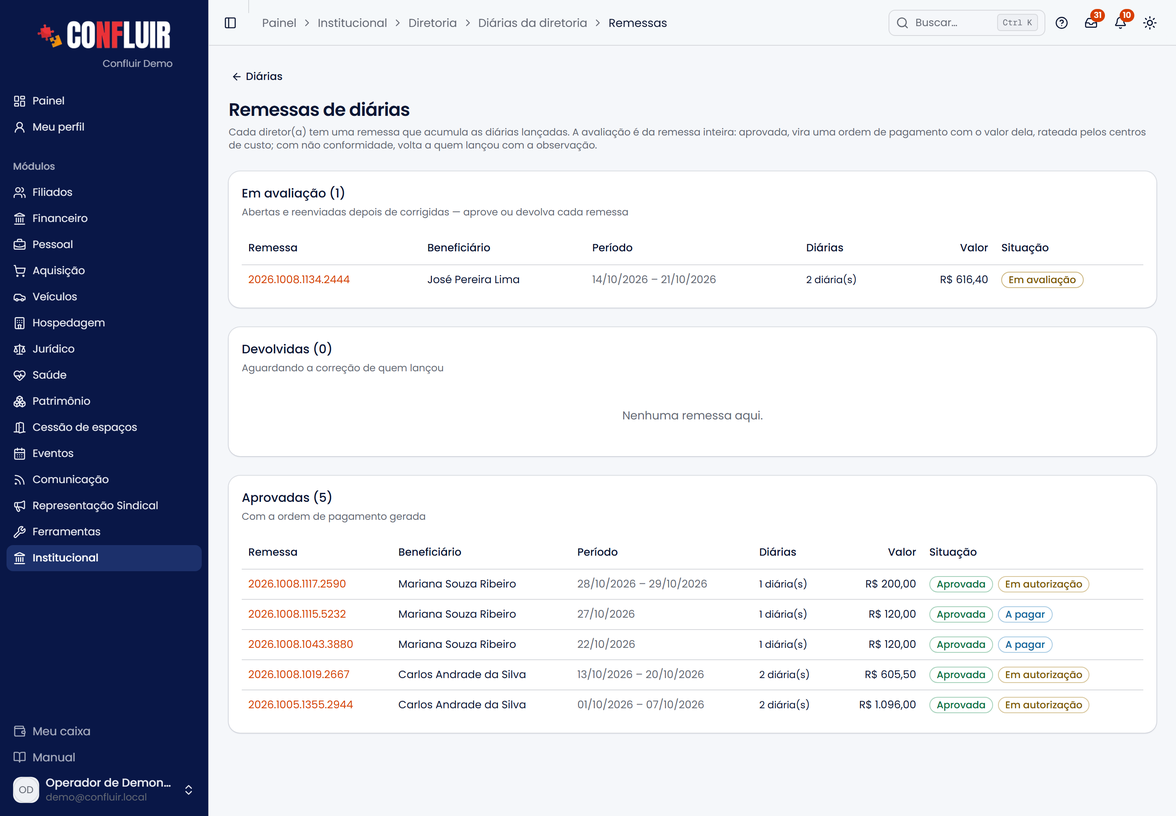
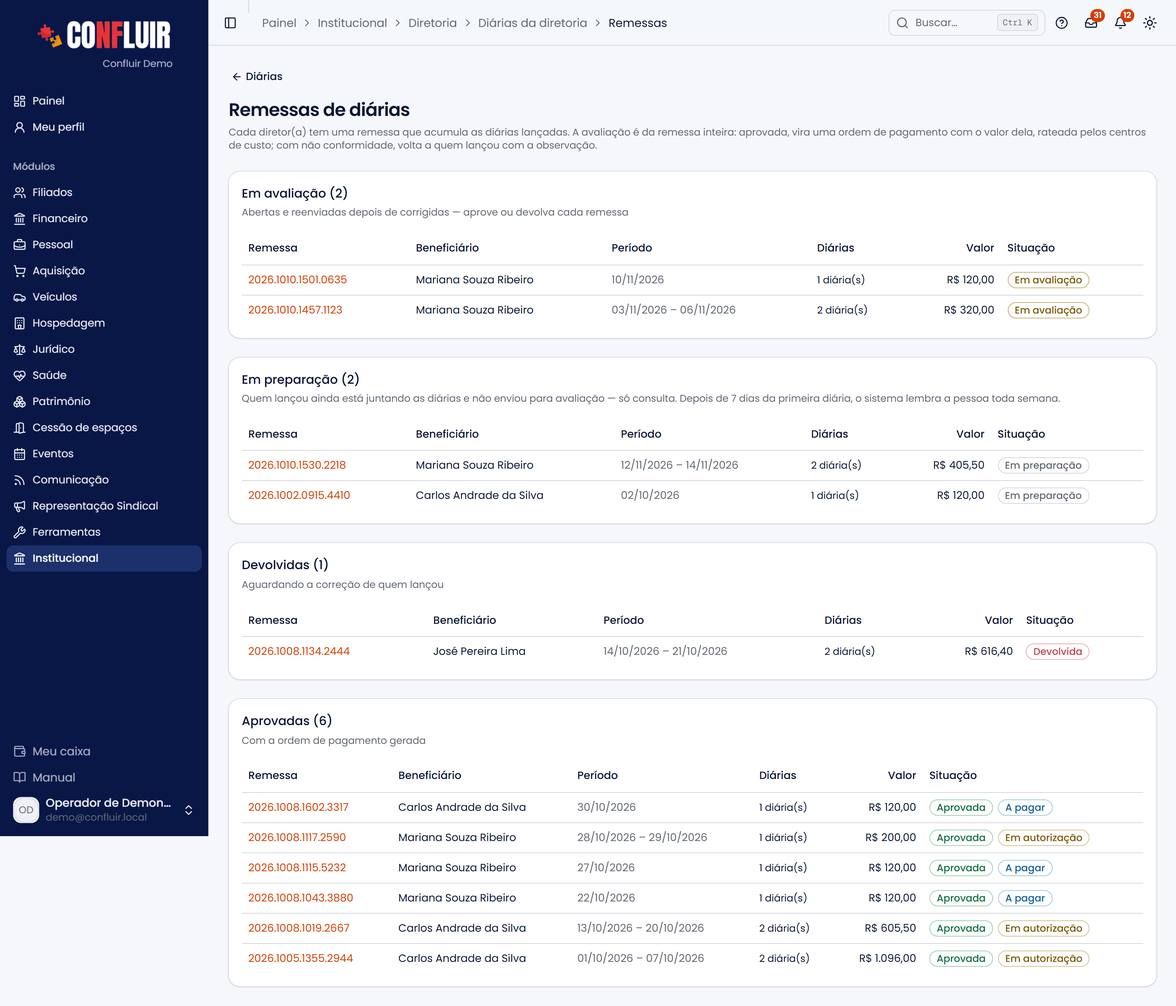
Manual: prints da remessa de diárias em preparação
Lista de remessas refeita com o bloco Em preparação; prints novos da remessa
em preparação (com Enviar para avaliação) e do lançamento com os botões
"Salvar e lançar outra" / "Salvar e enviar a remessa". Base regerada.

diff --git a/src/lib/ajuda/base-conhecimento.ts b/src/lib/ajuda/base-conhecimento.ts
@@ -302,7 +302,7 @@ export const BASE_AJUDA: ArtigoBase[] = [
   {
     "area": "institucional",
     "slug": "diretoria",
-    "texto": "A Diretoria organiza os mandatos e os integrantes da entidade — e é dela\nque saem os signatários dos ofícios. Ela tem duas abas: Mandatos e\nInstâncias.\n\n Mandatos e integrantes \n\n Mandatos e integrantes\n\n \n \nMandato: \n Um período de gestão, com início e fim. A página do mandato mostra os dados\n (lápis para editar), três cartões — Instâncias, Liberações sindicais e\n Atas de reunião, cada um com o total e a própria página — e os\n integrantes por grupo.\n \n \nA linha de cada integrante: \n Mostra o cargo, o departamento da pessoa em Organização (ou sem\n departamento), as instâncias em que representa a entidade, o selo\n Liberado quando há liberação vigente e a situação: licenciado ou\n excluído, com a data e o motivo.\n \n \nFicha do integrante: \n Cada integrante tem uma ficha: dados pessoais, endereço, vínculo, dados\n bancários, acessibilidade, contato de emergência e CNH — o que já está na\n filiação ou em Condutores aparece de lá.\n \n \n\n Licenciado ou excluído\n\nNo lápis do integrante, Situação no mandato: Em exercício (o padrão),\nLicenciado ou Excluído, com desde e motivo. A pessoa continua na\nlista do mandato, marcada — o excluído aparece riscado. Licenciado e excluído\nnão assinam ofícios: saem da lista de assinantes, mesmo com Assina ofícios\nmarcado.\n\n A ficha reflete os outros cadastros\n\nO que já existe em outro cadastro aparece na ficha — não se digita de novo.\nO que só o institucional tem continua nele.\n\n| Na ficha | De onde vem |\n|---|---|\n| Nascimento, e-mail, telefone, endereço, dados bancários, contato de emergência | Cadastro de filiação (selo Da filiação) |\n| Vínculos empregatícios (empresa, matrícula, lotação) | Cadastro de filiação, só para consulta |\n| CNH (número, categoria, validade, arquivo) | Veículos › Condutores, só para consulta |\n| Tamanho de camisa, tipo sanguíneo, acessibilidade | Só do institucional |\n\n \n\nAlterar na ficha altera a filiação: \n Para quem é filiado, mudar telefone, endereço, dados bancários ou o contato de\n emergência na ficha grava no cadastro de filiação — o mesmo dado passa a\n valer no perfil do filiado, nos reembolsos e no portal. A alteração fica\n registrada no prontuário da filiação. O contato de emergência editável é o\n primeiro da filiação; os demais continuam lá.\n \n\nA filiação é a vinculada ao integrante ou, sem vínculo, a do mesmo CPF. Um\nintegrante sem filiação (convidado, dirigente de outra base) tem a ficha\ncompleta guardada no institucional, como antes. A CNH aparece para quem está no\ncadastro de condutores — é lá que ela é cadastrada e atualizada.\n\n Instâncias\n\nInstâncias são as entidades em que o sindicato tem assento — conselhos,\ncomissões, fóruns. Elas são cadastradas fora do mandato, na aba\nInstâncias; os diretores são vinculados a elas dentro do mandato.\n\n \n \nCadastre a instância: \n Na aba Instâncias, em Nova instância: nome e descrição.\n \n \nVincule o diretor no mandato: \n Abra o mandato e, no cartão Instâncias, use Vincular diretor a uma\n instância: a instância, o diretor, o cargo nela, o período e o documento\n de posse.\n \n \nVeja a tag: \n Na lista de integrantes do mandato, quem tem vínculo em andamento ganha uma\n tag com o nome da instância. A página da instância lista todos os\n vínculos, de todos os mandatos, só para consulta.\n \n \n\n \n\n Liberações sindicais\n\nNo mandato, abra o cartão Liberações sindicais. Em Registrar liberação,\numa chave escolhe o jeito de lançar:\n\n- Individual — um diretor, o empregador, o tipo (permanente ou pontual), a\n vigência e o documento que oficializou.\n- Várias liberações — para quando um ofício libera várias pessoas, o\n caso mais comum.\n\n \n \nEscolha o ofício: \n O ofício é o da área de Ofícios — emita-o lá primeiro. O empregador vem\n preenchido com o destinatário do ofício, quando ele é uma fonte pagadora.\n \n \nAdicione as pessoas: \n Para cada pessoa, a data de saída e a data de retorno. A pessoa pode\n ser um diretor do mandato ou um trabalhador da base — escolha\n Trabalhador da base e busque o filiado; ele não precisa ser diretor. Sem\n data de retorno, a liberação fica permanente.\n \n \nRegistre: \n Uma liberação por pessoa é criada de uma vez, todas ligadas ao mesmo\n ofício. Na tabela, o trabalhador da base aparece com a marca base, e a\n coluna Documento leva ao ofício — que, por sua vez, lista as liberações\n registradas com ele.\n \n \n\n \n\nNo Meu perfil do diretor, a liberação aparece como em vigor, prevista\n(ainda não começou) ou encerrada.\n\n Signatários dos ofícios\n\nOs integrantes vigentes de um mandato são as pessoas oferecidas como\nassinantes ao emitir um ofício — por isso manter a diretoria em dia reflete\ndireto nos documentos.\n\n Atas de reunião\n\nAs atas ficam ancoradas no mandato — no cartão Atas de reunião — com tipo,\npauta, deliberações, presentes e o PDF da ata. Há também uma visão geral das\natas na área própria.\n\nSuba o PDF e a IA preenche a ata: \n Em Nova ata, o campo Ata em PDF fica no alto. Ao escolher o arquivo, a\n IA lê a ata — digitada ou escaneada — e preenche tipo, data, título, hora,\n local, pauta, deliberações, presentes e observações. Confira antes de\n salvar. Numa ata já registrada, só os campos vazios são preenchidos.\n \n\n \n\n \n\n Diárias da diretoria\n\nDiretor também recebe diária, e ela mora aqui — na aba Diárias, não em\nPessoal. O motor é o mesmo das diárias de funcionário, mas a porta é outra: só\nentra quem tem a permissão Diárias da diretoria, então quem cuida de folha e\nponto não vê nem avalia a diretoria (e vice-versa).\n\nAs diárias de cada diretor entram na remessa dele, e a avaliação é da\nremessa inteira — o mesmo fluxo de Pessoal, com aprovar, devolver com\nobservação e reenviar (veja Diárias). As\nremessas da diretoria ficam no botão Remessas desta aba.\n\nNo alto ficam os números do ano: quantas aguardam avaliação, quantas foram\naprovadas, o valor das diárias e o das despesas extras — e, logo abaixo, o\naprovado por departamento, que é como a contabilidade enxerga.\n\n \n \nLançar: \n Lançar diária abre o formulário (com Salvar e lançar outra ou\n Salvar e enviar a remessa): o diretor, o departamento que banca a\n atividade, o tipo, a quantidade, o período e a atividade. Quase nenhum\n diretor tem conta no sistema, então quem costuma lançar é a secretaria — o\n sistema guarda quem digitou. Quem tem conta pede a própria em\n Meu perfil → Minhas diárias.\n \n \nAcrescentar as despesas: \n Na tela da diária, enquanto ela aguarda avaliação, entram as despesas\n extras — hospedagem, alimentação, passagem — com valor e comprovante.\n \n \nAvaliar a remessa: \n Em Remessas, abra a remessa do diretor e aprove — nasce uma ordem\n de pagamento com o valor da remessa, rateada pelas contas dos\n departamentos — ou devolva com observação. Como quase nenhum diretor\n tem conta, quem corrige e reenvia é a própria secretaria, na tela da\n remessa (o botão Retirar tira uma diária com problema).\n \n \n\nO departamento decide a conta contábil: \n O departamento do diretor vem do cadastro dele (Organização → Departamentos)\n ou do próprio cargo, e pode ser trocado no lançamento quando a atividade é de\n outra área. É ele que escolhe a conta — no plano de contas, \"Deslocamento\n Diretores\" existe repetido em cada departamento.\n \n\n \n\n \n\nAs diárias de cada diretor também aparecem na ficha dele, com o total\naprovado no ano.\n\n Erros comuns\n\n- \"O signatário não aparece ao emitir um ofício.\" Só os integrantes\n vigentes do mandato são oferecidos como assinantes — confira o período do\n mandato e o cargo do integrante.\n- \"A ata não aparece.\" As atas ficam ancoradas no mandato; abra o\n cartão Atas de reunião do mandato (há também a visão geral na área própria).\n- \"O integrante aparece sem departamento.\" Vincule a pessoa em\n Institucional → Organização → Departamentos (ela precisa ter conta de usuário).\n- \"Uma diretora licenciada ainda aparece como assinante.\" Confira a\n Situação no mandato no lápis dela — licenciado e excluído saem dos assinantes.\n- \"Mudei o telefone na ficha e mudou no filiado.\" É o esperado: para quem\n é filiado, a ficha e a filiação são o mesmo cadastro.\n- \"A CNH não aparece na ficha.\" A pessoa não está em Veículos › Condutores\n (ou não tem conta de usuário com o mesmo CPF). Cadastre lá.\n- \"Não acho o ofício para vincular as liberações.\" Só aparecem ofícios\n emitidos na área de Ofícios. Emita-o lá e volte.\n- \"Não consigo vincular o diretor à instância na página dela.\" O vínculo\n é lançado dentro do mandato, no cartão Instâncias; a página da instância é\n só consulta.\n- \"O integrante saiu da diretoria mas continua aparecendo.\" Encerre o\n mandato ou o vínculo do integrante para tirá-lo dos vigentes.\n- \"A aba Diárias não aparece.\" Ela só aparece para quem tem a permissão\n Diárias da diretoria — peça a quem administra os acessos.\n- \"O diretor não aparece no formulário de diária.\" Só entram integrantes\n em exercício do mandato vigente que tenham cadastro de usuário. Ligue a\n pessoa a um usuário no lápis dela, no mandato.\n- \"Não há tipo de diária para escolher.\" Os tipos ficam em Pessoal →\n Diárias → Tipos de diária, e cada um diz se vale para funcionários, para a\n diretoria ou para os dois.\n- \"A diária do diretor apareceu na conta errada.\" Confira o departamento da\n solicitação e o de-para em Diárias → Centros de custo.\n- \"Não acho onde aprovar a diária do diretor.\" A avaliação é da remessa:\n botão Remessas, nesta aba, ou Abrir a remessa para avaliar na tela da\n diária. Na lista, as diárias têm só Ver."
+    "texto": "A Diretoria organiza os mandatos e os integrantes da entidade — e é dela\nque saem os signatários dos ofícios. Ela tem duas abas: Mandatos e\nInstâncias.\n\n Mandatos e integrantes \n\n Mandatos e integrantes\n\n \n \nMandato: \n Um período de gestão, com início e fim. A página do mandato mostra os dados\n (lápis para editar), três cartões — Instâncias, Liberações sindicais e\n Atas de reunião, cada um com o total e a própria página — e os\n integrantes por grupo.\n \n \nA linha de cada integrante: \n Mostra o cargo, o departamento da pessoa em Organização (ou sem\n departamento), as instâncias em que representa a entidade, o selo\n Liberado quando há liberação vigente e a situação: licenciado ou\n excluído, com a data e o motivo.\n \n \nFicha do integrante: \n Cada integrante tem uma ficha: dados pessoais, endereço, vínculo, dados\n bancários, acessibilidade, contato de emergência e CNH — o que já está na\n filiação ou em Condutores aparece de lá.\n \n \n\n Licenciado ou excluído\n\nNo lápis do integrante, Situação no mandato: Em exercício (o padrão),\nLicenciado ou Excluído, com desde e motivo. A pessoa continua na\nlista do mandato, marcada — o excluído aparece riscado. Licenciado e excluído\nnão assinam ofícios: saem da lista de assinantes, mesmo com Assina ofícios\nmarcado.\n\n A ficha reflete os outros cadastros\n\nO que já existe em outro cadastro aparece na ficha — não se digita de novo.\nO que só o institucional tem continua nele.\n\n| Na ficha | De onde vem |\n|---|---|\n| Nascimento, e-mail, telefone, endereço, dados bancários, contato de emergência | Cadastro de filiação (selo Da filiação) |\n| Vínculos empregatícios (empresa, matrícula, lotação) | Cadastro de filiação, só para consulta |\n| CNH (número, categoria, validade, arquivo) | Veículos › Condutores, só para consulta |\n| Tamanho de camisa, tipo sanguíneo, acessibilidade | Só do institucional |\n\n \n\nAlterar na ficha altera a filiação: \n Para quem é filiado, mudar telefone, endereço, dados bancários ou o contato de\n emergência na ficha grava no cadastro de filiação — o mesmo dado passa a\n valer no perfil do filiado, nos reembolsos e no portal. A alteração fica\n registrada no prontuário da filiação. O contato de emergência editável é o\n primeiro da filiação; os demais continuam lá.\n \n\nA filiação é a vinculada ao integrante ou, sem vínculo, a do mesmo CPF. Um\nintegrante sem filiação (convidado, dirigente de outra base) tem a ficha\ncompleta guardada no institucional, como antes. A CNH aparece para quem está no\ncadastro de condutores — é lá que ela é cadastrada e atualizada.\n\n Instâncias\n\nInstâncias são as entidades em que o sindicato tem assento — conselhos,\ncomissões, fóruns. Elas são cadastradas fora do mandato, na aba\nInstâncias; os diretores são vinculados a elas dentro do mandato.\n\n \n \nCadastre a instância: \n Na aba Instâncias, em Nova instância: nome e descrição.\n \n \nVincule o diretor no mandato: \n Abra o mandato e, no cartão Instâncias, use Vincular diretor a uma\n instância: a instância, o diretor, o cargo nela, o período e o documento\n de posse.\n \n \nVeja a tag: \n Na lista de integrantes do mandato, quem tem vínculo em andamento ganha uma\n tag com o nome da instância. A página da instância lista todos os\n vínculos, de todos os mandatos, só para consulta.\n \n \n\n \n\n Liberações sindicais\n\nNo mandato, abra o cartão Liberações sindicais. Em Registrar liberação,\numa chave escolhe o jeito de lançar:\n\n- Individual — um diretor, o empregador, o tipo (permanente ou pontual), a\n vigência e o documento que oficializou.\n- Várias liberações — para quando um ofício libera várias pessoas, o\n caso mais comum.\n\n \n \nEscolha o ofício: \n O ofício é o da área de Ofícios — emita-o lá primeiro. O empregador vem\n preenchido com o destinatário do ofício, quando ele é uma fonte pagadora.\n \n \nAdicione as pessoas: \n Para cada pessoa, a data de saída e a data de retorno. A pessoa pode\n ser um diretor do mandato ou um trabalhador da base — escolha\n Trabalhador da base e busque o filiado; ele não precisa ser diretor. Sem\n data de retorno, a liberação fica permanente.\n \n \nRegistre: \n Uma liberação por pessoa é criada de uma vez, todas ligadas ao mesmo\n ofício. Na tabela, o trabalhador da base aparece com a marca base, e a\n coluna Documento leva ao ofício — que, por sua vez, lista as liberações\n registradas com ele.\n \n \n\n \n\nNo Meu perfil do diretor, a liberação aparece como em vigor, prevista\n(ainda não começou) ou encerrada.\n\n Signatários dos ofícios\n\nOs integrantes vigentes de um mandato são as pessoas oferecidas como\nassinantes ao emitir um ofício — por isso manter a diretoria em dia reflete\ndireto nos documentos.\n\n Atas de reunião\n\nAs atas ficam ancoradas no mandato — no cartão Atas de reunião — com tipo,\npauta, deliberações, presentes e o PDF da ata. Há também uma visão geral das\natas na área própria.\n\nSuba o PDF e a IA preenche a ata: \n Em Nova ata, o campo Ata em PDF fica no alto. Ao escolher o arquivo, a\n IA lê a ata — digitada ou escaneada — e preenche tipo, data, título, hora,\n local, pauta, deliberações, presentes e observações. Confira antes de\n salvar. Numa ata já registrada, só os campos vazios são preenchidos.\n \n\n \n\n \n\n Diárias da diretoria\n\nDiretor também recebe diária, e ela mora aqui — na aba Diárias, não em\nPessoal. O motor é o mesmo das diárias de funcionário, mas a porta é outra: só\nentra quem tem a permissão Diárias da diretoria, então quem cuida de folha e\nponto não vê nem avalia a diretoria (e vice-versa).\n\nAs diárias de cada diretor entram na remessa dele, e a avaliação é da\nremessa inteira — o mesmo fluxo de Pessoal, com aprovar, devolver com\nobservação e reenviar (veja Diárias). As\nremessas da diretoria ficam no botão Remessas desta aba.\n\nNo alto ficam os números do ano: quantas aguardam avaliação, quantas foram\naprovadas, o valor das diárias e o das despesas extras — e, logo abaixo, o\naprovado por departamento, que é como a contabilidade enxerga.\n\n \n \nLançar: \n Lançar diária abre o formulário (com Salvar e lançar outra ou\n Salvar e enviar a remessa): o diretor, o departamento que banca a\n atividade, o tipo, a quantidade, o período e a atividade. Quase nenhum\n diretor tem conta no sistema, então quem costuma lançar é a secretaria — o\n sistema guarda quem digitou. Quem tem conta pede a própria em\n Meu perfil → Minhas diárias.\n \n \nAcrescentar as despesas: \n Na tela da diária, enquanto ela aguarda avaliação, entram as despesas\n extras — hospedagem, alimentação, passagem — com valor e comprovante.\n \n \nAvaliar a remessa: \n Em Remessas, abra a remessa do diretor e aprove — nasce uma ordem\n de pagamento com o valor da remessa, rateada pelas contas dos\n departamentos — ou devolva com observação. Como quase nenhum diretor\n tem conta, quem corrige e reenvia é a própria secretaria, na tela da\n remessa (o botão Retirar tira uma diária com problema).\n \n \n\n \n\nO departamento decide a conta contábil: \n O departamento do diretor vem do cadastro dele (Organização → Departamentos)\n ou do próprio cargo, e pode ser trocado no lançamento quando a atividade é de\n outra área. É ele que escolhe a conta — no plano de contas, \"Deslocamento\n Diretores\" existe repetido em cada departamento.\n \n\n \n\n \n\nAs diárias de cada diretor também aparecem na ficha dele, com o total\naprovado no ano.\n\n Erros comuns\n\n- \"O signatário não aparece ao emitir um ofício.\" Só os integrantes\n vigentes do mandato são oferecidos como assinantes — confira o período do\n mandato e o cargo do integrante.\n- \"A ata não aparece.\" As atas ficam ancoradas no mandato; abra o\n cartão Atas de reunião do mandato (há também a visão geral na área própria).\n- \"O integrante aparece sem departamento.\" Vincule a pessoa em\n Institucional → Organização → Departamentos (ela precisa ter conta de usuário).\n- \"Uma diretora licenciada ainda aparece como assinante.\" Confira a\n Situação no mandato no lápis dela — licenciado e excluído saem dos assinantes.\n- \"Mudei o telefone na ficha e mudou no filiado.\" É o esperado: para quem\n é filiado, a ficha e a filiação são o mesmo cadastro.\n- \"A CNH não aparece na ficha.\" A pessoa não está em Veículos › Condutores\n (ou não tem conta de usuário com o mesmo CPF). Cadastre lá.\n- \"Não acho o ofício para vincular as liberações.\" Só aparecem ofícios\n emitidos na área de Ofícios. Emita-o lá e volte.\n- \"Não consigo vincular o diretor à instância na página dela.\" O vínculo\n é lançado dentro do mandato, no cartão Instâncias; a página da instância é\n só consulta.\n- \"O integrante saiu da diretoria mas continua aparecendo.\" Encerre o\n mandato ou o vínculo do integrante para tirá-lo dos vigentes.\n- \"A aba Diárias não aparece.\" Ela só aparece para quem tem a permissão\n Diárias da diretoria — peça a quem administra os acessos.\n- \"O diretor não aparece no formulário de diária.\" Só entram integrantes\n em exercício do mandato vigente que tenham cadastro de usuário. Ligue a\n pessoa a um usuário no lápis dela, no mandato.\n- \"Não há tipo de diária para escolher.\" Os tipos ficam em Pessoal →\n Diárias → Tipos de diária, e cada um diz se vale para funcionários, para a\n diretoria ou para os dois.\n- \"A diária do diretor apareceu na conta errada.\" Confira o departamento da\n solicitação e o de-para em Diárias → Centros de custo.\n- \"Não acho onde aprovar a diária do diretor.\" A avaliação é da remessa:\n botão Remessas, nesta aba, ou Abrir a remessa para avaliar na tela da\n diária. Na lista, as diárias têm só Ver."
   },
   {
     "area": "institucional",
@@ -462,7 +462,7 @@ export const BASE_AJUDA: ArtigoBase[] = [
   {
     "area": "pessoal",
     "slug": "diarias",
-    "texto": "As diárias cobrem despesas de viagens e deslocamentos. A equipe cadastra os\ntipos, o funcionário solicita, e as diárias de cada pessoa se juntam numa\nremessa, que é avaliada inteira — aprovada, vira uma ordem de pagamento só,\nrateada pelos centros de custo.\n\nDiretor tem a área dele: \n Esta tela é a das diárias de funcionário. As da diretoria ficam em\n Institucional → Diretoria → Diárias, com permissão própria: quem cuida de\n folha e ponto não avalia a diretoria. O motor é o mesmo — tipos, despesas\n extras e contas são compartilhados.\n \n\n Tipos de diária\n\nEm Tipos de diária, cadastre cada tipo com o nome, a descrição e o valor de\nreferência, e mantenha ativos apenas os que estão em uso. Cada tipo diz também\nem Vale para se serve a funcionários, à diretoria ou aos dois — é o que\ndecide em qual das duas telas ele aparece. Tipos trazidos do sistema anterior\npodem aparecer como Permanente ou Restrito a N pessoas: o restrito só\naparece no formulário de quem está na lista.\n\n \n\n O ciclo: a diária entra na remessa, e a remessa é avaliada\n\nCada pessoa tem uma remessa de diárias: toda diária que ela pede (ou que\nlançam por ela) entra nessa remessa, com as despesas extras. A remessa começa\nem preparação — a pessoa vai juntando as diárias e, quando terminar, envia\npara avaliação. Só então ela aparece para quem avalia. A avaliação\nnão é diária por diária — é da remessa inteira: quem avalia confere tudo de\numa vez e aprova (nasce uma ordem de pagamento só, com o valor da remessa)\nou devolve com a observação do que não está de acordo.\n\n \n \nSolicitar: \n Em Meu perfil → Minhas diárias, o botão Solicitar diária abre o\n formulário: o tipo, a quantidade, o período e o motivo. O valor é\n quantidade × valor do tipo. A diária entra na remessa em preparação da\n pessoa. Dois botões: Salvar e lançar outra (continua juntando) e\n Salvar e enviar a remessa (salva e já manda a remessa inteira para\n avaliação).\n \n \nEnviar para avaliação: \n Juntou tudo? No cartão da remessa, em Meu perfil → Minhas diárias, o\n botão Enviar para avaliação mostra o resumo (diárias e total) e envia.\n Quem avalia é avisado. Enviada, a remessa não recebe mais diárias — a\n próxima abre outra remessa.\n \n \nAcrescentar as despesas: \n Antes de enviar, quem pediu lança as despesas\n extras — hospedagem, alimentação, passagem, táxi, pedágio — com valor e\n comprovante. A equipe também lança pela tela da diária.\n \n \nAvaliar a remessa: \n Em Diárias → Remessas, abra a remessa: as diárias, as despesas e os\n comprovantes estão todos na mesma tela. Aprovar a remessa aprova todas\n as diárias de uma vez; Devolver com observação manda de volta a quem\n lançou (veja abaixo).\n \n \nPagamento: \n Aprovada, nasce uma ordem de pagamento com o valor da remessa — diárias\n (líquidas das infrações de trânsito descontadas) mais despesas —, rateada\n pelos centros de custo configurados. Se ela já sai autorizada ou vai para\n a fila de autorização depende da regra das diárias (veja Autorização da\n ordem, mais abaixo).\n \n \n\n \n\nQuem envia e o lembrete: \n Envia a remessa quem recebe ou quem lançou as diárias dela — na\n diretoria, a secretaria. Quem gere as diárias vê as remessas em preparação\n (bloco Em preparação de Diárias → Remessas), mas só consulta e cobra. Se a\n primeira diária da remessa tem 7 dias e ela ainda não foi enviada, o\n sistema lembra quem recebe e quem lançou — e repete uma vez por semana.\n \n\nA diária sozinha não é avaliada: na lista de Diárias toda linha tem só Ver,\ne a tela da diária mostra a remessa em que ela entrou, com o botão Abrir a\nremessa para avaliar — é lá que se aprova ou devolve. Quem avalia diárias de funcionário também pode decidir\npelo celular, em Aprovar, e o coordenador do departamento decide a\nremessa dos funcionários dele na aba Coordenação do painel — ninguém avalia\na própria remessa.\n\n Devolver com observação\n\nSe algo não está de acordo — falta o relatório da atividade, um comprovante,\na quantidade de diárias não confere —, use Devolver com observação:\n\n1. Escreva o que não está de acordo (obrigatório).\n2. Em Diárias com não conformidade, marque cada diária com problema e diga\n o que corrigir nela.\n3. Confirme em Devolver a remessa.\n\n \n\nQuem recebe e quem lançou são avisados (sino, Telegram e e-mail, conforme as\npreferências). A remessa fica Devolvida, as diárias apontadas aparecem em\nvermelho com a não conformidade, e ela sai da fila de quem avalia até ser\nreenviada.\n\n \n\n Corrigir e reenviar\n\n- Quem pediu vê a devolução em Meu perfil → Minhas diárias: a\n observação, as diárias apontadas e o botão Reenviar para avaliação.\n Para corrigir, ajuste as despesas, cancele a diária com problema e, se\n for o caso, peça de novo com os dados certos — a nova entra na mesma\n remessa.\n- Quem gere as diárias também corrige pela tela da remessa: o botão\n Retirar tira (cancela) uma diária da remessa, e o Reenviar fica\n disponível — é o caminho para a diretoria, que quase nunca tem conta no\n sistema.\n- Reenviada, a remessa volta à fila (Reenviada) e quem avalia é avisado.\n Quem avalia também pode avaliar de novo sem esperar o reenvio, quando a\n correção já foi feita por ele mesmo.\n\nTodo o caminho fica no Histórico da avaliação da remessa: quem devolveu e\npor quê, quem reenviou e o que corrigiu, quem aprovou e a ordem gerada.\n\n \n\n A lista de remessas\n\nDiárias → Remessas separa as remessas em Em avaliação (enviadas e\nreenviadas — as que esperam decisão), Em preparação (a pessoa ainda está\njuntando as diárias; só consulta), Devolvidas (esperando a correção de quem\nlançou) e Aprovadas (com a situação da ordem de pagamento ao lado). O\nbotão Remessas, no alto da tela de Diárias, mostra quantas há a avaliar.\n\n \n\nNo alto da lista de Diárias ficam os números do ano: quantas diárias aguardam\navaliação (e quanto somam), quantas foram aprovadas, o valor das diárias e o das\ndespesas extras.\n\n \n\n Autorização da ordem\n\nQuando a remessa é aprovada, a ordem de pagamento pode já nascer A pagar\n(autorizada por quem aprovou a remessa) ou ir para a fila de autorização do\nFinanceiro. A regra é uma só para a entidade e fica no topo de\nDiárias → Centros de custo, no cartão Autorização das ordens das remessas:\n\n| Regra | O que acontece ao aprovar a remessa |\n|---|---|\n| Quem aprova a remessa autoriza a ordem (padrão) | A ordem nasce A pagar, autorizada por quem aprovou, qualquer que seja o valor. |\n| A autorização da ordem depende da alçada financeira | Se o valor couber na alçada de quem aprovou, a ordem nasce A pagar, autorizada por ele. Se não couber (ou a pessoa não tiver alçada), a ordem vai para a fila Em autorização e segue como qualquer outra ordem. |\n\nAntes de aprovar, a tela da remessa já diz o que vai acontecer com a ordem para\nquem está avaliando — \"já autorizada por você\" ou \"enviada à fila de\nautorização\". A autorização automática fica registrada na ordem (quem, quando e\no motivo) e na trilha dela.\n\n \n\nQuem muda a regra: \n É uma decisão financeira: só quem tem Configurações ou a avaliação das\n ordens de pagamento muda a regra. Quem gere as diárias vê a regra em vigor,\n mas não altera.\n \n\n Despesas extras e centros de custo\n\nA despesa extra está submetida à diária — mesma remessa, mesma avaliação,\nmesmo pagamento —, mas pode ir para outra conta contábil. Por isso a ordem\nda remessa sai com rateio: um pagamento só, uma linha por conta (e por\ndepartamento) — o que cai na mesma conta soma numa linha. O rateio aparece no\nbloco Centro de custo da ordem, no Financeiro.\n\nEm Diárias → Centros de custo se diz qual conta cada gasto usa. A conta sai\nde três coisas: o quadro de quem recebe (funcionário ou diretoria), o\ndepartamento que banca e o tipo de gasto (a diária ou cada despesa).\nFuncionários usam uma conta só; na diretoria, cada departamento pode ter a sua,\ne o padrão vale para quem não tiver conta própria.\n\nNada disso é obrigatório: sem conta definida, a ordem vai para o Financeiro\nclassificar na autorização, como sempre foi.\n\nA mesma tela serve às Viagens: as contas de Passagem e Hospedagem de\ndiretores e funcionários são as que as faturas das agências usam, e a aba\nConvidados guarda as dos convidados de eventos. Ver\nFaturas de viagens.\n\n \n\nPrecisa da configuração: \n As diárias dependem de uma configuração inicial (os arquivos diarias.sql e\n diarias-diretoria.sql). Sem ela, a área mostra um aviso para configurar —\n fale com quem administra o sistema.\n \n\n Histórico do sistema anterior\n\nNo sistema anterior a diária era lançada dia a dia (tipo, atividade, local e\nvalor, com as despesas e comprovantes de cada dia) e os lançamentos formavam uma\nremessa do beneficiário, que era enviada, avaliada e paga por ordem de\npagamento. Essas remessas estão em Diárias → Histórico, só para consulta —\no botão mostra quantas são. Filtre por ano ou busque por beneficiário,\ndepartamento ou código, e abra a remessa para ver a avaliação, a ordem de\npagamento e os lançamentos.\n\nCada pessoa vê as próprias remessas em Meu perfil → Diárias anteriores — o\natalho aparece para quem tem alguma, diretor ou funcionário.\n\n Erros comuns\n\n- \"A área pede para configurar.\" Falta rodar a configuração inicial\n (diarias.sql) — fale com quem administra o sistema.\n- \"A lista está vazia, mas havia diárias no sistema antigo.\" Elas estão em\n Histórico — a lista principal mostra só as solicitações novas.\n- \"Não acho o botão de aprovar na diária.\" A avaliação é da remessa:\n abra Diárias → Remessas (o botão mostra quantas há a avaliar) ou, na\n tela da diária, Abrir a remessa para avaliar.\n- \"A remessa não mostra Aprovar.\" Se todas as diárias dela foram\n canceladas, não há o que avaliar — ela sai da fila Em avaliação. Diária\n aprovada pelo jeito antigo (por diária, antes da mudança) e ainda sem ordem\n aparece com Aprovar a remessa, que só gera a ordem.\n- \"Aprovei a remessa, mas a ordem ficou Em autorização.\" A regra das\n diárias está em depende da alçada e o valor passou da sua alçada — a ordem\n segue na fila de quem tem alçada para ela. Veja Autorização da ordem.\n- \"Aprovei a remessa, mas o pagamento não saiu.\" A ordem nasce A pagar\n no Financeiro; o pagamento em si é registrado lá, como em qualquer ordem.\n- \"A remessa sumiu da fila.\" Ela foi devolvida e espera a correção —\n está no bloco Devolvidas da lista de remessas.\n- \"Lancei a diária, mas ninguém avaliou.\" A remessa está em preparação:\n falta Enviar para avaliação (Meu perfil → Minhas diárias, ou a tela da\n remessa para quem lançou pela pessoa).\n- \"Quero enviar a remessa de um funcionário.\" Só envia quem recebe ou quem\n lançou as diárias; quem gere as diárias cobra a pessoa — o sistema também\n lembra depois de 7 dias.\n- \"Não consigo reenviar a remessa.\" Ela precisa ter ao menos uma diária\n aguardando. Se você cancelou a única diária, peça a diária corrigida antes de\n reenviar.\n- \"Não consigo avaliar a remessa.\" Ninguém avalia a própria remessa — e a\n diária de diretor é avaliada pela Diretoria, não pelo Pessoal.\n- \"O valor total veio errado.\" O total é quantidade × valor do tipo;\n confira o valor de referência cadastrado no tipo de diária. As despesas extras\n aparecem somadas à parte.\n- \"O tipo de diária não aparece na solicitação.\" Ele pode estar inativo —\n reative-o em Tipos de diária —, restrito a outras pessoas ou marcado em\n Vale para como sendo do outro quadro.\n- \"Não consigo lançar a despesa.\" Depois de aprovada, a diária não aceita\n mudança nas despesas — o rateio da ordem já foi fechado.\n- \"A despesa caiu na conta da diária.\" Defina a conta daquele tipo de\n despesa em Diárias → Centros de custo.\n- \"Não consigo excluir um tipo antigo.\" Tipos usados em solicitações ou em\n lançamentos do histórico não podem ser excluídos — desative-os."
+    "texto": "As diárias cobrem despesas de viagens e deslocamentos. A equipe cadastra os\ntipos, o funcionário solicita, e as diárias de cada pessoa se juntam numa\nremessa, que é avaliada inteira — aprovada, vira uma ordem de pagamento só,\nrateada pelos centros de custo.\n\nDiretor tem a área dele: \n Esta tela é a das diárias de funcionário. As da diretoria ficam em\n Institucional → Diretoria → Diárias, com permissão própria: quem cuida de\n folha e ponto não avalia a diretoria. O motor é o mesmo — tipos, despesas\n extras e contas são compartilhados.\n \n\n Tipos de diária\n\nEm Tipos de diária, cadastre cada tipo com o nome, a descrição e o valor de\nreferência, e mantenha ativos apenas os que estão em uso. Cada tipo diz também\nem Vale para se serve a funcionários, à diretoria ou aos dois — é o que\ndecide em qual das duas telas ele aparece. Tipos trazidos do sistema anterior\npodem aparecer como Permanente ou Restrito a N pessoas: o restrito só\naparece no formulário de quem está na lista.\n\n \n\n O ciclo: a diária entra na remessa, e a remessa é avaliada\n\nCada pessoa tem uma remessa de diárias: toda diária que ela pede (ou que\nlançam por ela) entra nessa remessa, com as despesas extras. A remessa começa\nem preparação — a pessoa vai juntando as diárias e, quando terminar, envia\npara avaliação. Só então ela aparece para quem avalia. A avaliação\nnão é diária por diária — é da remessa inteira: quem avalia confere tudo de\numa vez e aprova (nasce uma ordem de pagamento só, com o valor da remessa)\nou devolve com a observação do que não está de acordo.\n\n \n \nSolicitar: \n Em Meu perfil → Minhas diárias, o botão Solicitar diária abre o\n formulário: o tipo, a quantidade, o período e o motivo. O valor é\n quantidade × valor do tipo. A diária entra na remessa em preparação da\n pessoa. Dois botões: Salvar e lançar outra (continua juntando) e\n Salvar e enviar a remessa (salva e já manda a remessa inteira para\n avaliação).\n \n \nEnviar para avaliação: \n Juntou tudo? No cartão da remessa, em Meu perfil → Minhas diárias, o\n botão Enviar para avaliação mostra o resumo (diárias e total) e envia.\n Quem avalia é avisado. Enviada, a remessa não recebe mais diárias — a\n próxima abre outra remessa.\n \n \nAcrescentar as despesas: \n Antes de enviar, quem pediu lança as despesas\n extras — hospedagem, alimentação, passagem, táxi, pedágio — com valor e\n comprovante. A equipe também lança pela tela da diária.\n \n \nAvaliar a remessa: \n Em Diárias → Remessas, abra a remessa: as diárias, as despesas e os\n comprovantes estão todos na mesma tela. Aprovar a remessa aprova todas\n as diárias de uma vez; Devolver com observação manda de volta a quem\n lançou (veja abaixo).\n \n \nPagamento: \n Aprovada, nasce uma ordem de pagamento com o valor da remessa — diárias\n (líquidas das infrações de trânsito descontadas) mais despesas —, rateada\n pelos centros de custo configurados. Se ela já sai autorizada ou vai para\n a fila de autorização depende da regra das diárias (veja Autorização da\n ordem, mais abaixo).\n \n \n\n \n\n \n\nQuem envia e o lembrete: \n Envia a remessa quem recebe ou quem lançou as diárias dela — na\n diretoria, a secretaria. Quem gere as diárias vê as remessas em preparação\n (bloco Em preparação de Diárias → Remessas), mas só consulta e cobra. Se a\n primeira diária da remessa tem 7 dias e ela ainda não foi enviada, o\n sistema lembra quem recebe e quem lançou — e repete uma vez por semana.\n \n\nA diária sozinha não é avaliada: na lista de Diárias toda linha tem só Ver,\ne a tela da diária mostra a remessa em que ela entrou, com o botão Abrir a\nremessa para avaliar — é lá que se aprova ou devolve. Quem avalia diárias de funcionário também pode decidir\npelo celular, em Aprovar, e o coordenador do departamento decide a\nremessa dos funcionários dele na aba Coordenação do painel — ninguém avalia\na própria remessa.\n\n Devolver com observação\n\nSe algo não está de acordo — falta o relatório da atividade, um comprovante,\na quantidade de diárias não confere —, use Devolver com observação:\n\n1. Escreva o que não está de acordo (obrigatório).\n2. Em Diárias com não conformidade, marque cada diária com problema e diga\n o que corrigir nela.\n3. Confirme em Devolver a remessa.\n\n \n\nQuem recebe e quem lançou são avisados (sino, Telegram e e-mail, conforme as\npreferências). A remessa fica Devolvida, as diárias apontadas aparecem em\nvermelho com a não conformidade, e ela sai da fila de quem avalia até ser\nreenviada.\n\n \n\n Corrigir e reenviar\n\n- Quem pediu vê a devolução em Meu perfil → Minhas diárias: a\n observação, as diárias apontadas e o botão Reenviar para avaliação.\n Para corrigir, ajuste as despesas, cancele a diária com problema e, se\n for o caso, peça de novo com os dados certos — a nova entra na mesma\n remessa.\n- Quem gere as diárias também corrige pela tela da remessa: o botão\n Retirar tira (cancela) uma diária da remessa, e o Reenviar fica\n disponível — é o caminho para a diretoria, que quase nunca tem conta no\n sistema.\n- Reenviada, a remessa volta à fila (Reenviada) e quem avalia é avisado.\n Quem avalia também pode avaliar de novo sem esperar o reenvio, quando a\n correção já foi feita por ele mesmo.\n\nTodo o caminho fica no Histórico da avaliação da remessa: quem devolveu e\npor quê, quem reenviou e o que corrigiu, quem aprovou e a ordem gerada.\n\n \n\n A lista de remessas\n\nDiárias → Remessas separa as remessas em Em avaliação (enviadas e\nreenviadas — as que esperam decisão), Em preparação (a pessoa ainda está\njuntando as diárias; só consulta), Devolvidas (esperando a correção de quem\nlançou) e Aprovadas (com a situação da ordem de pagamento ao lado). O\nbotão Remessas, no alto da tela de Diárias, mostra quantas há a avaliar.\n\n \n\nNo alto da lista de Diárias ficam os números do ano: quantas diárias aguardam\navaliação (e quanto somam), quantas foram aprovadas, o valor das diárias e o das\ndespesas extras.\n\n \n\n Autorização da ordem\n\nQuando a remessa é aprovada, a ordem de pagamento pode já nascer A pagar\n(autorizada por quem aprovou a remessa) ou ir para a fila de autorização do\nFinanceiro. A regra é uma só para a entidade e fica no topo de\nDiárias → Centros de custo, no cartão Autorização das ordens das remessas:\n\n| Regra | O que acontece ao aprovar a remessa |\n|---|---|\n| Quem aprova a remessa autoriza a ordem (padrão) | A ordem nasce A pagar, autorizada por quem aprovou, qualquer que seja o valor. |\n| A autorização da ordem depende da alçada financeira | Se o valor couber na alçada de quem aprovou, a ordem nasce A pagar, autorizada por ele. Se não couber (ou a pessoa não tiver alçada), a ordem vai para a fila Em autorização e segue como qualquer outra ordem. |\n\nAntes de aprovar, a tela da remessa já diz o que vai acontecer com a ordem para\nquem está avaliando — \"já autorizada por você\" ou \"enviada à fila de\nautorização\". A autorização automática fica registrada na ordem (quem, quando e\no motivo) e na trilha dela.\n\n \n\nQuem muda a regra: \n É uma decisão financeira: só quem tem Configurações ou a avaliação das\n ordens de pagamento muda a regra. Quem gere as diárias vê a regra em vigor,\n mas não altera.\n \n\n Despesas extras e centros de custo\n\nA despesa extra está submetida à diária — mesma remessa, mesma avaliação,\nmesmo pagamento —, mas pode ir para outra conta contábil. Por isso a ordem\nda remessa sai com rateio: um pagamento só, uma linha por conta (e por\ndepartamento) — o que cai na mesma conta soma numa linha. O rateio aparece no\nbloco Centro de custo da ordem, no Financeiro.\n\nEm Diárias → Centros de custo se diz qual conta cada gasto usa. A conta sai\nde três coisas: o quadro de quem recebe (funcionário ou diretoria), o\ndepartamento que banca e o tipo de gasto (a diária ou cada despesa).\nFuncionários usam uma conta só; na diretoria, cada departamento pode ter a sua,\ne o padrão vale para quem não tiver conta própria.\n\nNada disso é obrigatório: sem conta definida, a ordem vai para o Financeiro\nclassificar na autorização, como sempre foi.\n\nA mesma tela serve às Viagens: as contas de Passagem e Hospedagem de\ndiretores e funcionários são as que as faturas das agências usam, e a aba\nConvidados guarda as dos convidados de eventos. Ver\nFaturas de viagens.\n\n \n\nPrecisa da configuração: \n As diárias dependem de uma configuração inicial (os arquivos diarias.sql e\n diarias-diretoria.sql). Sem ela, a área mostra um aviso para configurar —\n fale com quem administra o sistema.\n \n\n Histórico do sistema anterior\n\nNo sistema anterior a diária era lançada dia a dia (tipo, atividade, local e\nvalor, com as despesas e comprovantes de cada dia) e os lançamentos formavam uma\nremessa do beneficiário, que era enviada, avaliada e paga por ordem de\npagamento. Essas remessas estão em Diárias → Histórico, só para consulta —\no botão mostra quantas são. Filtre por ano ou busque por beneficiário,\ndepartamento ou código, e abra a remessa para ver a avaliação, a ordem de\npagamento e os lançamentos.\n\nCada pessoa vê as próprias remessas em Meu perfil → Diárias anteriores — o\natalho aparece para quem tem alguma, diretor ou funcionário.\n\n Erros comuns\n\n- \"A área pede para configurar.\" Falta rodar a configuração inicial\n (diarias.sql) — fale com quem administra o sistema.\n- \"A lista está vazia, mas havia diárias no sistema antigo.\" Elas estão em\n Histórico — a lista principal mostra só as solicitações novas.\n- \"Não acho o botão de aprovar na diária.\" A avaliação é da remessa:\n abra Diárias → Remessas (o botão mostra quantas há a avaliar) ou, na\n tela da diária, Abrir a remessa para avaliar.\n- \"A remessa não mostra Aprovar.\" Se todas as diárias dela foram\n canceladas, não há o que avaliar — ela sai da fila Em avaliação. Diária\n aprovada pelo jeito antigo (por diária, antes da mudança) e ainda sem ordem\n aparece com Aprovar a remessa, que só gera a ordem.\n- \"Aprovei a remessa, mas a ordem ficou Em autorização.\" A regra das\n diárias está em depende da alçada e o valor passou da sua alçada — a ordem\n segue na fila de quem tem alçada para ela. Veja Autorização da ordem.\n- \"Aprovei a remessa, mas o pagamento não saiu.\" A ordem nasce A pagar\n no Financeiro; o pagamento em si é registrado lá, como em qualquer ordem.\n- \"A remessa sumiu da fila.\" Ela foi devolvida e espera a correção —\n está no bloco Devolvidas da lista de remessas.\n- \"Lancei a diária, mas ninguém avaliou.\" A remessa está em preparação:\n falta Enviar para avaliação (Meu perfil → Minhas diárias, ou a tela da\n remessa para quem lançou pela pessoa).\n- \"Quero enviar a remessa de um funcionário.\" Só envia quem recebe ou quem\n lançou as diárias; quem gere as diárias cobra a pessoa — o sistema também\n lembra depois de 7 dias.\n- \"Não consigo reenviar a remessa.\" Ela precisa ter ao menos uma diária\n aguardando. Se você cancelou a única diária, peça a diária corrigida antes de\n reenviar.\n- \"Não consigo avaliar a remessa.\" Ninguém avalia a própria remessa — e a\n diária de diretor é avaliada pela Diretoria, não pelo Pessoal.\n- \"O valor total veio errado.\" O total é quantidade × valor do tipo;\n confira o valor de referência cadastrado no tipo de diária. As despesas extras\n aparecem somadas à parte.\n- \"O tipo de diária não aparece na solicitação.\" Ele pode estar inativo —\n reative-o em Tipos de diária —, restrito a outras pessoas ou marcado em\n Vale para como sendo do outro quadro.\n- \"Não consigo lançar a despesa.\" Depois de aprovada, a diária não aceita\n mudança nas despesas — o rateio da ordem já foi fechado.\n- \"A despesa caiu na conta da diária.\" Defina a conta daquele tipo de\n despesa em Diárias → Centros de custo.\n- \"Não consigo excluir um tipo antigo.\" Tipos usados em solicitações ou em\n lançamentos do histórico não podem ser excluídos — desative-os."
   },
   {
     "area": "pessoal",
